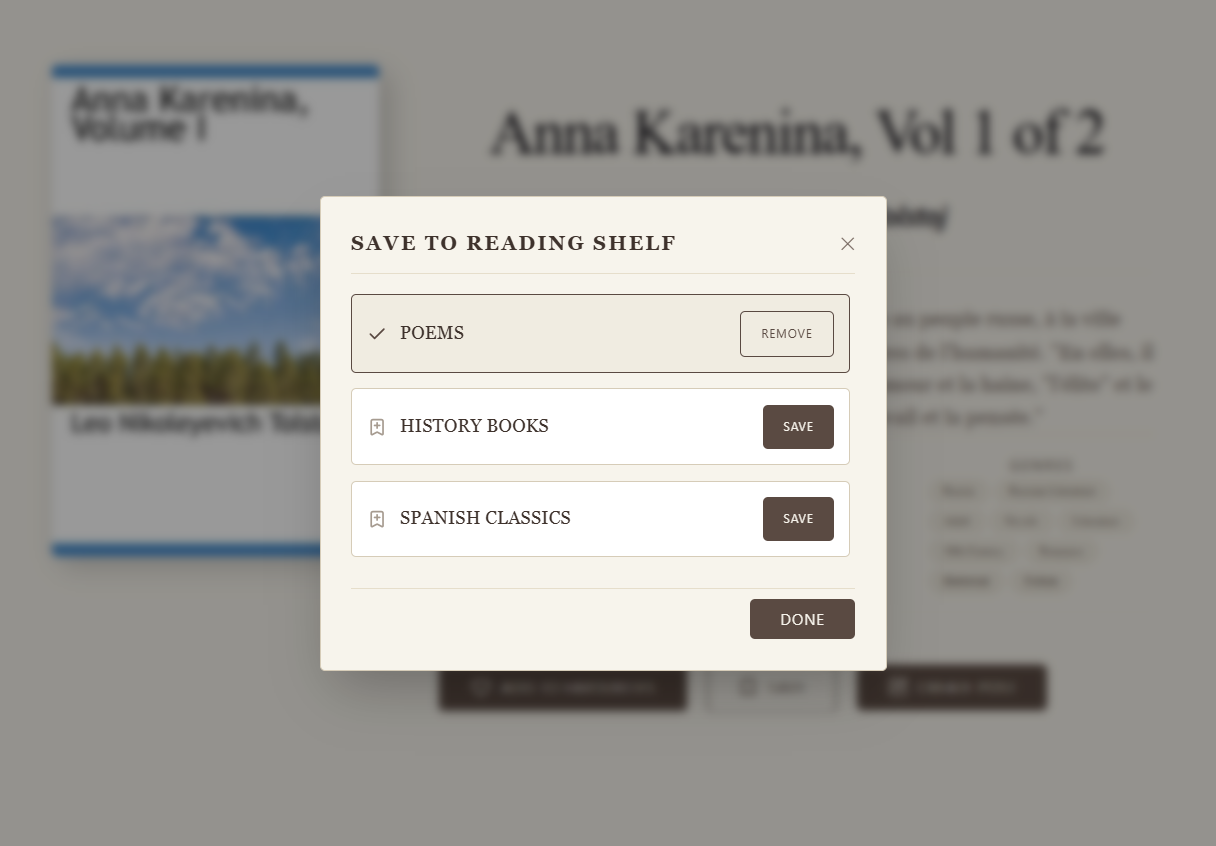
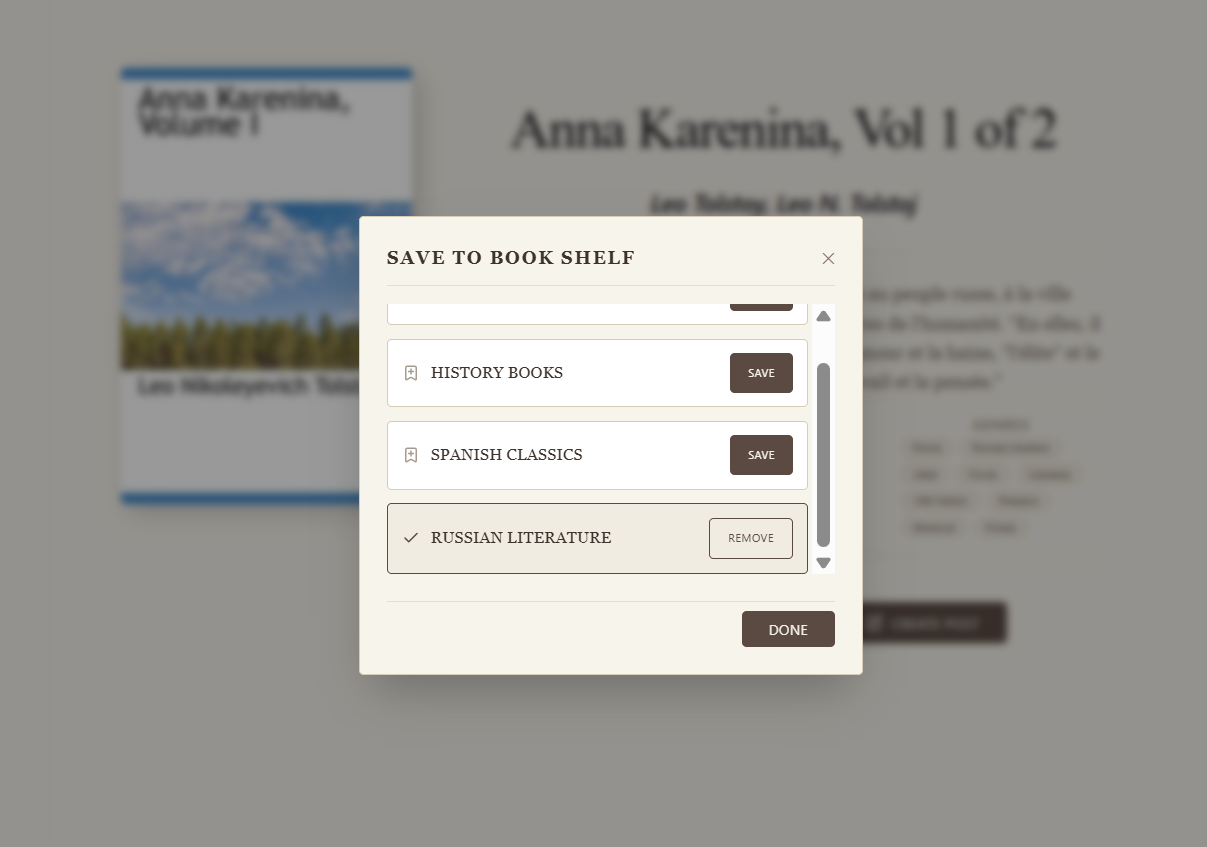
Upgrading Blog Page UI and My Posts Page UI

diff --git a/frontend/app/src/Components/ui/PostCard.tsx b/frontend/app/src/Components/ui/PostCard.tsx
@@ -1,6 +1,7 @@
 import { Link } from "react-router";
 import type { PostType } from "../../Models/post";
 import { dateTimeValidation } from "../../Utils/dateTimeValidation";
+import { UserCircle, BookOpen, Clock } from "lucide-react";
 
 interface PostCardProps {
   post: PostType;
@@ -8,28 +9,73 @@ interface PostCardProps {
 
 export default function PostCard(props: PostCardProps) {
   return (
-    <div>
-      <div className="relative w-full aspect-[2/3] shadow-[5px_5px_15px_rgba(0,0,0,0.15)] group-hover:shadow-[5px_5px_20px_rgba(0,0,0,0.3)] transition-shadow duration-300 bg-white">
-        <Link to={`/book/${props.post.book.id}`}>
-          <h4>{props.post.book.title}</h4>
-          <img
-            src={props.post.book.cover_url}
-            alt={`Portada de ${props.post.book.title}`}
-            className="w-10"
-          />
-        </Link>
-        <h3>{props.post.title}</h3>
-        <h3>
-          {props.post.user.first_name} {props.post.user.last_name}
-        </h3>
-        <h4>{dateTimeValidation(props.post.posted_at)}</h4>
-        <img
-          src={props.post.image_url}
-          alt={`Portada de ${props.post.title}`}
-          className="w-70"
-        />
-        <h4>{props.post.content}</h4>
+    <article className="w-full pb-10 mb-10 border-b border-[#e6decb] flex flex-col space-y-4 text-left">
+      {/* Header: User details, Timestamp & Book Reference */}
+      <div className="flex items-start justify-between">
+        <div className="flex items-center space-x-3">
+          <div className="w-11 h-11 bg-[#f0ece1] border border-[#d6ccb8] rounded-full flex items-center justify-center text-[#5a4a42] shrink-0">
+            <UserCircle className="w-7 h-7" />
+          </div>
+          <div>
+            <h3 className="font-serif text-sm font-semibold text-[#3e322c]">
+              {props.post.user.first_name} {props.post.user.last_name}
+            </h3>
+            <span className="flex items-center space-x-1 text-[11px] font-sans text-[#7a6b63] tracking-wider uppercase mt-0.5">
+              <Clock className="w-3 h-3 text-[#a69b90]" />
+              <span>{dateTimeValidation(props.post.posted_at)}</span>
+            </span>
+          </div>
+        </div>
+
+        {/* Referenced Book Badge (Acts as a Link Button) */}
+        {props.post.book && (
+          <Link
+            to={`/book/${props.post.book.id}`}
+            className="flex items-center space-x-2.5 bg-white/60 hover:bg-white border border-[#d6ccb8] hover:border-[#5a4a42] px-3 py-1.5 rounded-sm transition-all group shrink-0 shadow-2xs"
+          >
+            <div className="w-6 aspect-[2/3] bg-white border border-[#d6ccb8] overflow-hidden rounded-xs shrink-0 shadow-2xs">
+              <img
+                src={props.post.book.cover_url}
+                alt={`Portada de ${props.post.book.title}`}
+                className="w-full h-full object-cover"
+              />
+            </div>
+            <div className="max-w-[120px] sm:max-w-[160px] text-left">
+              <span className="block text-[9px] uppercase font-sans tracking-widest text-[#8a7a70] flex items-center gap-1">
+                <BookOpen className="w-2.5 h-2.5" /> Book
+              </span>
+              <h4 className="text-xs font-serif font-semibold text-[#3e322c] truncate group-hover:text-black">
+                {props.post.book.title}
+              </h4>
+            </div>
+          </Link>
+        )}
       </div>
-    </div>
+
+      {/* Post Content Body */}
+      <div className="space-y-2 pt-1">
+        <h2
+          className="text-xl md:text-2xl font-serif text-[#3e322c] font-normal leading-tight"
+          style={{ fontFamily: "'Cinzel', serif" }}
+        >
+          {props.post.title}
+        </h2>
+
+        <p className="font-serif text-sm md:text-base text-[#5a4a42] leading-relaxed whitespace-pre-line">
+          {props.post.content}
+        </p>
+      </div>
+
+      {/* Post Attached Image (Optional) */}
+      {props.post.image_url && (
+        <div className="w-full aspect-video md:aspect-[21/9] rounded-sm border border-[#d6ccb8] overflow-hidden bg-white/40 shadow-inner mt-2">
+          <img
+            src={props.post.image_url}
+            alt={`Imagen de ${props.post.title}`}
+            className="w-full h-full object-cover"
+          />
+        </div>
+      )}
+    </article>
   );
 }

diff --git a/frontend/app/src/Pages/secondary/MyPostsPage.tsx b/frontend/app/src/Pages/secondary/MyPostsPage.tsx
@@ -1,7 +1,10 @@
 import { useQuery } from "@tanstack/react-query";
 import { useAuthContext } from "../../Contexts/AuthContext";
 import { myPostsRequest } from "../../Services/api/service";
-import PostGrid from "../../Components/ui/PostGrid";
+import { Link } from "react-router";
+import Loading from "../../Utils/Loading";
+import Error from "../../Utils/Error";
+import { FileText } from "lucide-react";
 
 export default function MyPostsPage() {
   const { user } = useAuthContext();
@@ -15,14 +18,62 @@ export default function MyPostsPage() {
     queryFn: () => myPostsRequest(),
   });
 
-  if (isPending) return <h1>Loading</h1>;
+  if (isPending) return <Loading />;
 
-  if (error) return <h1>Error</h1>;
+  if (error)
+    return <Error message="No se pudieron cargar tus publicaciones." />;
 
   return (
-    <div>
-      <h1>My Posts Section</h1>
-      <PostGrid posts={posts} />
+    <div className="w-full max-w-6xl mx-auto py-6 px-6 space-y-8">
+      {/* Section Title */}
+      <div className="text-left">
+        <p className="text-xs font-sans text-[#7a6b63] uppercase tracking-wider">
+          {posts?.length || 0}{" "}
+          {posts?.length === 1 ? "Publication" : "Publications"}
+        </p>
+        <hr className="border-t border-[#e6decb] mt-3" />
+      </div>
+
+      {/* Posts Grid */}
+      {posts && posts.length > 0 ? (
+        <div className="grid grid-cols-1 sm:grid-cols-2 md:grid-cols-3 gap-6">
+          {posts.map(
+            (post: { id: string; image_url: string; title: string }) => (
+              <Link
+                key={post.id}
+                to={`/post/${post.id}`}
+                className="group relative aspect-square bg-white border border-[#d6ccb8] rounded-sm overflow-hidden shadow-xs hover:shadow-md transition-all cursor-pointer block"
+              >
+                {post.image_url ? (
+                  <img
+                    src={post.image_url}
+                    alt={post.title}
+                    className="w-full h-full object-cover transition-transform duration-300 group-hover:scale-105"
+                  />
+                ) : (
+                  <div className="w-full h-full bg-[#f0ece1] flex flex-col items-center justify-center p-4 text-[#7a6b63]">
+                    <FileText className="w-8 h-8 mb-2 opacity-60" />
+                    <span className="font-serif text-xs uppercase tracking-wider text-center">
+                      No image
+                    </span>
+                  </div>
+                )}
+
+                {/* Hover Overlay with Post Title */}
+                <div className="absolute inset-0 bg-[#3e322c]/75 opacity-0 group-hover:opacity-100 transition-opacity duration-300 flex items-center justify-center p-6 text-center">
+                  <h3 className="font-serif text-sm md:text-base text-[#f7f4ec] font-normal tracking-wide line-clamp-3">
+                    {post.title}
+                  </h3>
+                </div>
+              </Link>
+            ),
+          )}
+        </div>
+      ) : (
+        <div className="py-20 text-center text-[#7a6b63] font-serif text-sm">
+          You haven't created any posts yet.
+        </div>
+      )}
     </div>
   );
 }

diff --git a/frontend/app/src/Utils/dateTimeValidation.ts b/frontend/app/src/Utils/dateTimeValidation.ts
@@ -1,12 +1,58 @@
+// export function dateTimeValidation(datetime: string) {
+//   // Source - https://stackoverflow.com/a/41659388
+//   // Posted by John, modified by community. See post 'Timeline' for change history
+//   // Retrieved 2026-10-28, License - CC BY-SA 4.0
+
+//   const date = new Date(datetime);
+//   const day = date.getDate();
+//   const month = date.getMonth();
+//   // const year = date.getFullYear();
+
+//   // const current_year = date.getFullYear();
+//   // const current_month = date.getMonth();
+//   // const current_day = date.getDate();
+
+//   const now = new Date();
+
+//   const msPerDay = 24 * 60 * 60 * 1000;
+//   const daysDiff = Math.round((now.getTime() - date.getTime()) / msPerDay);
+
+//   if (daysDiff > 3) return day + "/" + (month + 1);
+
+//   if (daysDiff == 0) return "Today";
+//   if (daysDiff == 1) return "Yesterday";
+//   if (daysDiff == 2) return "2 days ago";
+//   else return "3 days ago";
+// }
+
 export function dateTimeValidation(datetime: string) {
   // Source - https://stackoverflow.com/a/41659388
   // Posted by John, modified by community. See post 'Timeline' for change history
   // Retrieved 2026-10-28, License - CC BY-SA 4.0
 
-  const date = new Date(datetime); // had to remove the colon (:) after the T in order to make it work
-  const day = date.getDate();
-  const monthIndex = date.getMonth();
-  const myFormattedDate = day + "/" + (monthIndex + 1);
+  const date = new Date(datetime);
+  // from utc+1 to utc
+  date.setHours(date.getHours() - 1);
 
-  return myFormattedDate;
+  const cleandate = new Date(
+    date.getFullYear(),
+    date.getMonth(),
+    date.getDate(),
+  );
+  const now = new Date();
+  const today = new Date(now.getFullYear(), now.getMonth(), now.getDate());
+
+  const msperday = 24 * 60 * 60 * 1000;
+
+  if (cleandate.getTime() === today.getTime()) return "Today";
+  if (cleandate.getTime() === today.getTime() - msperday) return "Yesterday";
+  if (cleandate.getTime() === today.getTime() - 2 * msperday)
+    return "2 days ago";
+  if (cleandate.getTime() === today.getTime() - 3 * msperday)
+    return "3 days ago";
+
+  const day = date.getDate();
+  const month = date.getMonth();
+
+  return day + "/" + (month + 1);
 }

diff --git a/frontend/app/src/Components/primary/HomeBlogPage.tsx b/frontend/app/src/Components/primary/HomeBlogPage.tsx
@@ -3,6 +3,9 @@ import { postsRequest } from "../../Services/api/service";
 import { useInView } from "react-intersection-observer";
 import { useEffect } from "react";
 import PostCard from "../ui/PostCard";
+import Loading from "../../Utils/Loading";
+import Error from "../../Utils/Error";
+import { Loader2 } from "lucide-react";
 
 export default function HomeBlogPage() {
   const {
@@ -26,26 +29,36 @@ export default function HomeBlogPage() {
     }
   }, [fetchNextPage, inView]);
 
-  if (isPending) return <h1>Loading...</h1>;
+  if (isPending) return <Loading />;
 
-  if (error) return <h1>Error</h1>;
+  if (error)
+    return <Error message="Posts could not be loaded. Try again later." />;
 
   return (
-    <div className="flex flex-col gap-2">
-      {posts.pages.map((page) => {
-        return (
+    <div className="w-full bg-[#f7f4ec] min-h-screen py-10 px-4 md:px-8 flex flex-col items-center">
+      {/* Infinite Scroll Post Cards Feed */}
+      <div className="w-full max-w-3xl flex flex-col space-y-8">
+        {posts.pages.map((page) => (
           <div
             key={page.current_page}
-            className="flex flex-col items-center group cursor-pointer"
+            className="w-full flex flex-col space-y-8"
           >
-            {page.posts.map((post) => {
-              return <PostCard post={post}></PostCard>;
-            })}
+            {page.posts.map((post) => (
+              <PostCard key={post.id} post={post} />
+            ))}
           </div>
-        );
-      })}
+        ))}
+      </div>
 
-      <h1 ref={ref}>{isFetchingNextPage && "Loading..."}</h1>
+      {/* Bottom Loading Indicator for Infinite Scroll */}
+      <div ref={ref} className="py-10 flex justify-center items-center w-full">
+        {isFetchingNextPage && (
+          <div className="flex items-center space-x-2 text-[#5a4a42] text-xs font-serif uppercase tracking-widest">
+            <Loader2 className="w-4 h-4 animate-spin" />
+            <span>Loading more posts...</span>
+          </div>
+        )}
+      </div>
     </div>
   );
 }

diff --git a/frontend/app/src/Components/ui/SaveBookModal.tsx b/frontend/app/src/Components/ui/SaveBookModal.tsx
@@ -32,7 +32,7 @@ export default function SaveBookModal(props: SaveBookModalProps) {
       <div className="bg-[#f7f4ec] border border-[#d6ccb8] shadow-2xl rounded-sm p-6 w-full max-w-md mx-4 animate-in fade-in zoom-in-95 duration-200">
         <div className="flex justify-between items-center pb-3 border-b border-[#e6decb] mb-4">
           <h3 className="font-serif text-base text-[#3e322c] uppercase tracking-widest font-semibold">
-            Save to Reading Shelf
+            Save to Book Shelf
           </h3>
           <button
             onClick={() => props.setIsOpen(false)}

diff --git a/PROJECT_PROGRESS.md b/PROJECT_PROGRESS.md
@@ -1167,3 +1167,25 @@ I am using ChatGPT and Gemini to upgrade the UI of the website. Today I am updat
 ![book_details_page](media/book_details_page.png)
 
 **Now it looks much better**
+
+### November 5th
+
+Today I will make the Profile page and My Library page look better.
+
+#### Profile Page UI upgrade
+
+The profile page just contains the user's information:
+
+![my_profile_page](media/my_profile_page.png)
+
+Pretty simple, but nice.
+
+#### My Library Page UI upgrade
+
+Now, I wanted the My Library page to look like it had actual book shelves. Therefore, I decided that the buttons to **Favourites** page and each **Book Shelf** should look like shelves, showing a list of books.
+
+This is what I managed to achieve using Gemini:
+
+![my_library_page_upgrade](media/my_library_page_upgrade.png)
+
+Pretty nice.

diff --git a/README.md b/README.md
@@ -50,17 +50,31 @@ This a container-based system where Frontend, Backend and Database run on indepe
 
 ## 🖼 Screenshots
 
+### Books Page:
+
 <p align="center">
   <img src=media/better_homepage.png width="550" height="330">
 </p>
+
+### Blog Page:
+
+<p align="center">
+  <img src=media/blog_page.png width="550" height="330">
+</p>
+
+### My Library:
 
 <p align="center">
   <img src=media/my_library_page.png width="550" height="320">
 </p>
 
+### Book Details:
+
 <p align="center">
   <img src=media/book_details_page.png width="550" height="320">
 </p>
+
+### Saving Book:
 
 <p align="center">
   <img src=media/save_book_modal.png width="550" height="380">
